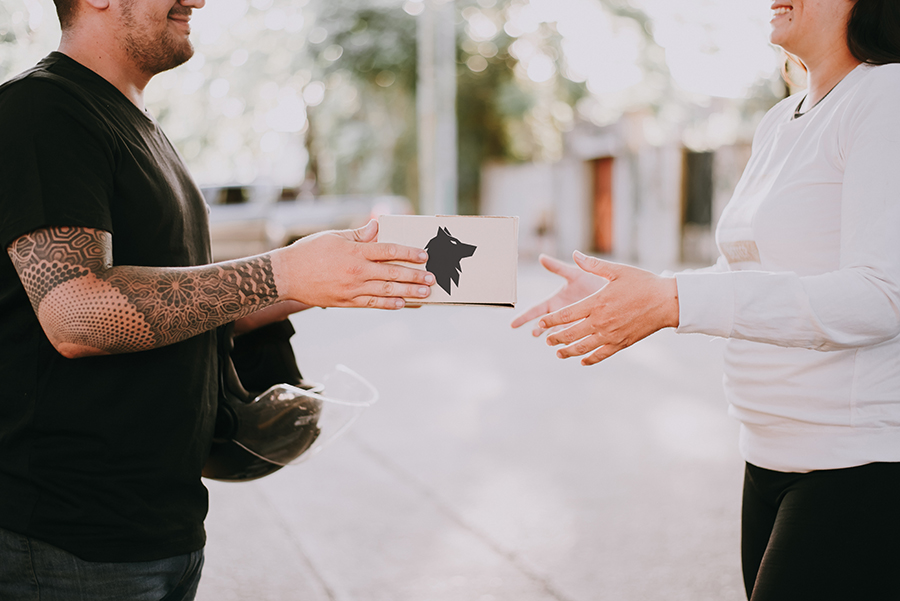
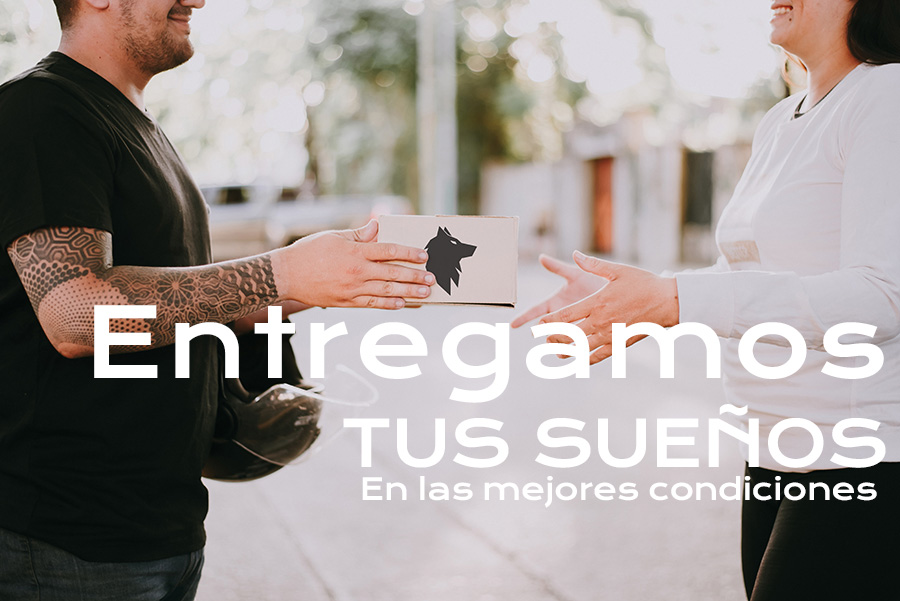
imgenes en heroSection

Changed region(s): [[0.0933, 0.5092, 0.9956, 0.8386]]

diff --git a/index.html b/index.html
@@ -45,24 +45,18 @@
             </div>
             <div class="carousel-inner">
                 <div class="carousel-item active">
-                    <img src="./Img/herosection.jpg" class="d-block w-100" alt="...">
+                    <img src="./Img/herosection.jpg" class="d-block w-100" alt="..." height="35%">
                     <div class="carousel-caption d-none d-md-block">
-                        <h5>Consulta Nuestros Precios</h5>
-                        <p>Cotizamos al momento dependiendo de tus necesidades</p>
                     </div>
                 </div>
                 <div class="carousel-item">
-                    <img src="./Img/flotamotos.jpg" class="d-block w-100" alt="...">
+                    <img src="./Img/flotamotos.jpg" class="d-block w-100" alt="..." height="35%">
                     <div class="carousel-caption d-none d-md-block">
-                        <h5>Motomensajeria a tu servicio</h5>
-                        <p></p>
                     </div>
                 </div>
                 <div class="carousel-item">
-                    <img src="./Img/entrega.jpg" class="d-block w-100" alt="...">
+                    <img src="./Img/entrega.jpg" class="d-block w-100" alt="..." height="35%">
                     <div class="carousel-caption d-none d-md-block">
-                        <h5>Third slide label</h5>
-                        <p>Some representative placeholder content for the third slide.</p>
                     </div>
                 </div>
             </div>

diff --git a/css/style.css b/css/style.css
@@ -1,0 +1,47 @@
+/*styling.css*/
+/*add font family, background image*/
+
+body {
+  color: #5bc0de;
+  font-family: "Poppins", sans-serif;
+}
+
+.fa-map-marker-alt,
+.fa-dot-circle {
+  color: #5bc0de;
+}
+
+/*Jumbotron*/
+.jumbotron {
+  background-color: transparent;
+  margin: 0;
+  padding: 10px;
+}
+
+.jumbotron h1 {
+  letter-spacing: 2.5px;
+  font-size: 3.5em;
+}
+
+.jumbotron h1,
+.jumbotron p {
+  text-align: center;
+}
+
+/*map*/
+#googleMap {
+  width: 80%;
+  height: 400px;
+  margin: 10px auto;
+}
+
+/*output box*/
+#output {
+  text-align: center;
+  font-size: 2em;
+  margin: 20px auto;
+}
+
+#mode {
+  color: black;
+}

diff --git a/pages/precios.html b/pages/precios.html
@@ -76,6 +76,9 @@
     </div>
 
     <!-- jQuery (necessary for Bootstrap's JavaScript plugins) -->
+    <script src="https://cdn.jsdelivr.net/npm/bootstrap@5.0.2/dist/js/bootstrap.bundle.min.js"
+    integrity="sha384-MrcW6ZMFYlzcLA8Nl+NtUVF0sA7MsXsP1UyJoMp4YLEuNSfAP+JcXn/tWtIaxVXM"
+    crossorigin="anonymous"></script>
     <script src="https://maps.googleapis.com/maps/api/js?key=AIzaSyBCTFv7kmJ-6tH3VBiygWhlbyRCOtnJVww&libraries=places"></script>
     <script src="https://ajax.googleapis.com/ajax/libs/jquery/1.11.3/jquery.min.js"></script>
     <!-- Include all compiled plugins (below), or include individual files as needed -->
